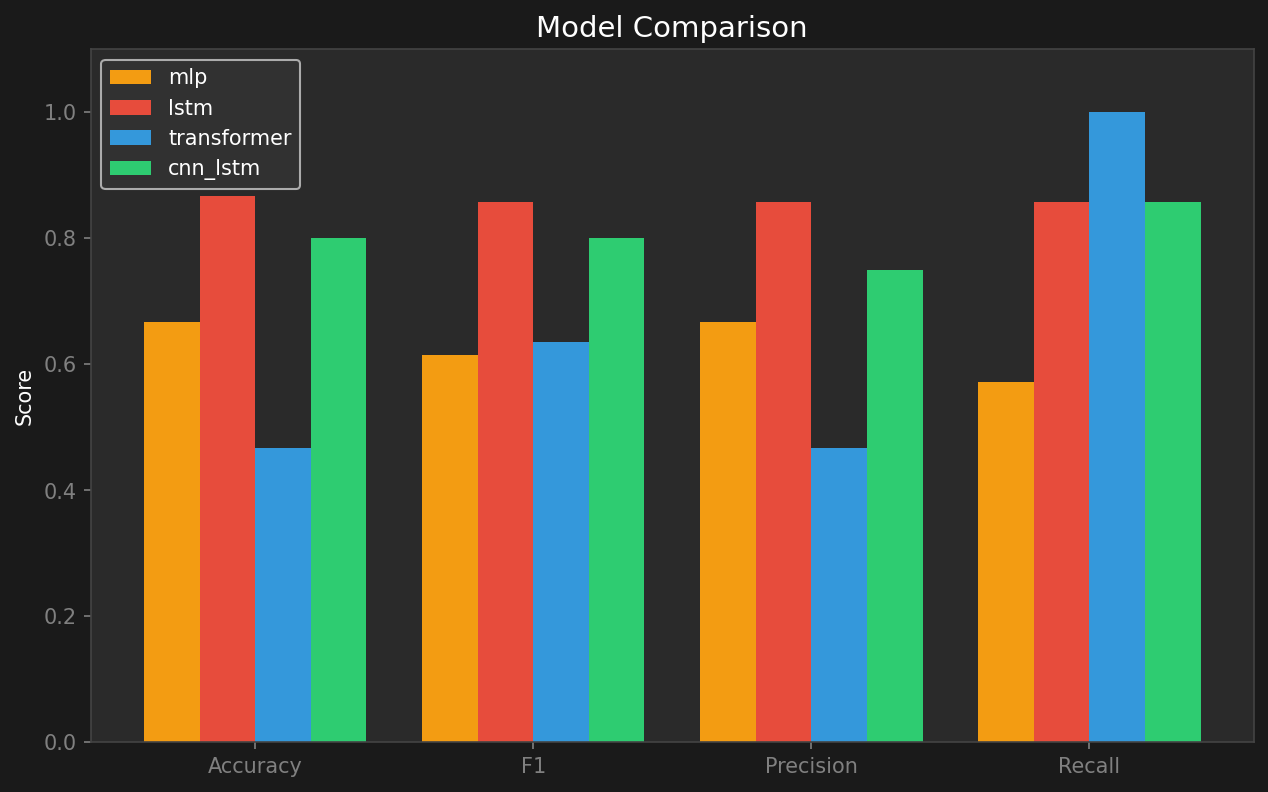
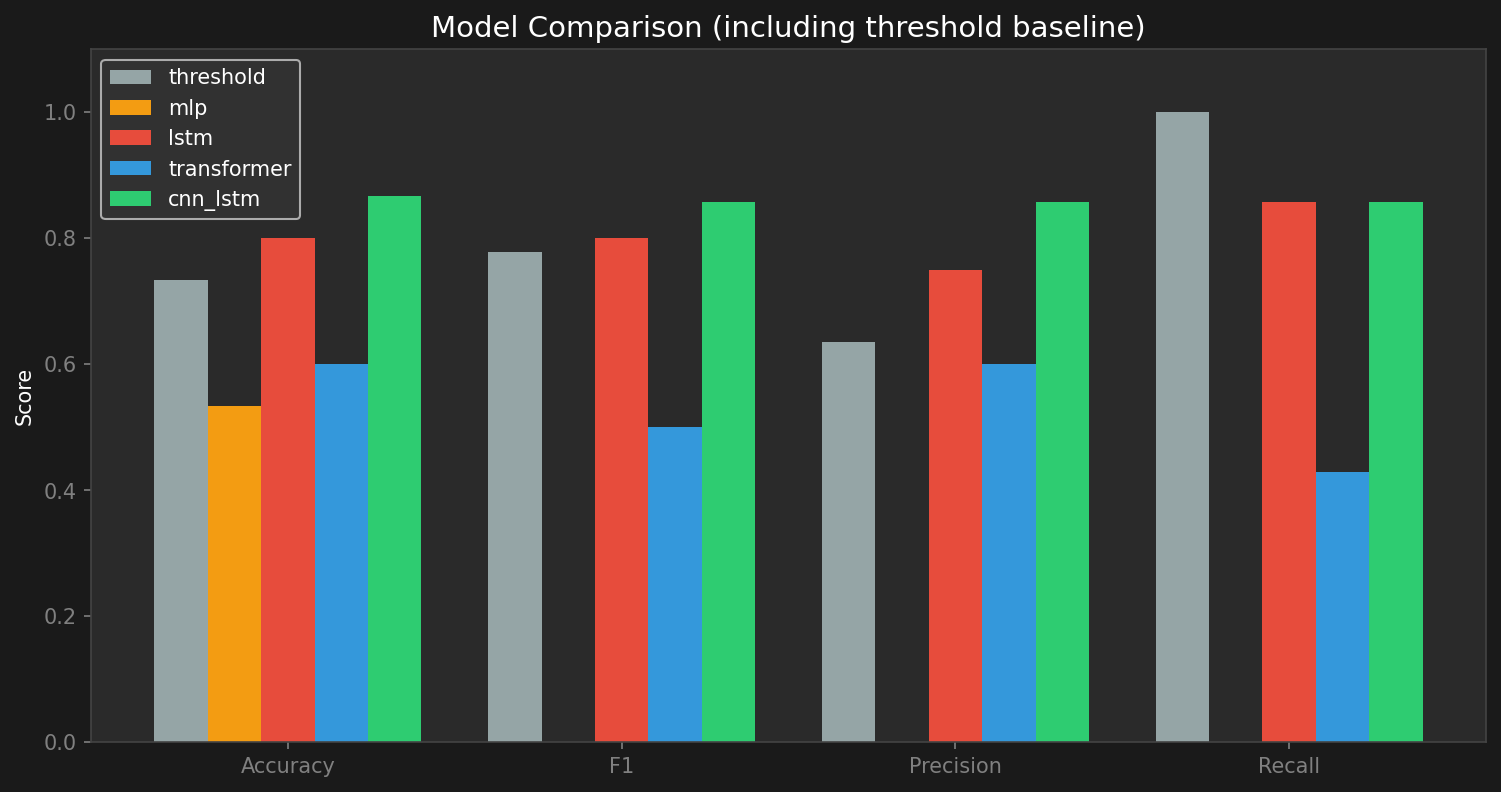
added baseline

diff --git a/threshold_baseline.py b/threshold_baseline.py
@@ -1,0 +1,151 @@
+"""
+Data-driven threshold baseline.
+
+Instead of hardcoded angle thresholds, this baseline:
+  1. Splits the data the same way as the ML models (70/15/15)
+  2. On the training set, computes the mean elbow and back angle
+     for correct clips and incorrect clips separately
+  3. Sets the decision threshold = midpoint between the two means
+  4. Classifies test clips using those learned thresholds
+  5. Compares against the LSTM checkpoint if available
+
+Run:
+    python threshold_baseline.py
+"""
+
+import numpy as np
+from sklearn.model_selection import train_test_split
+from sklearn.metrics import accuracy_score, f1_score, classification_report
+
+import config
+
+# ── Angle computation ─────────────────────────────────────────────────────────
+
+def compute_angle(a, b, c):
+    ba, bc = a - b, c - b
+    cos_a = np.dot(ba, bc) / (np.linalg.norm(ba) * np.linalg.norm(bc) + 1e-6)
+    return float(np.degrees(np.arccos(np.clip(cos_a, -1, 1))))
+
+
+def clip_features(seq):
+    """
+    seq: (150, 33, 2)
+    Returns mean elbow angle and mean back alignment during bottom phase (frames 0–74).
+    """
+    bottom = seq[:seq.shape[0] // 2]
+    elbows = [compute_angle(f[12], f[14], f[16]) for f in bottom]
+    backs  = [compute_angle(f[12], f[24], f[28]) for f in bottom]
+    return np.mean(elbows), np.mean(backs)
+
+
+# ── Load data ─────────────────────────────────────────────────────────────────
+
+print("Loading dataset …")
+correct   = np.load(config.CORRECT_NPY).reshape(50, 150, 33, 2)
+incorrect = np.load(config.INCORRECT_NPY).reshape(50, 150, 33, 2)
+
+features = []
+labels   = []
+
+for seq in correct:
+    features.append(clip_features(seq))
+    labels.append(1)
+for seq in incorrect:
+    features.append(clip_features(seq))
+    labels.append(0)
+
+features = np.array(features)   # (100, 2) — [elbow_mean, back_mean]
+labels   = np.array(labels)     # (100,)
+
+# ── Same train/test split as ML models ───────────────────────────────────────
+
+X_train, X_temp, y_train, y_temp = train_test_split(
+    features, labels,
+    test_size=(config.VAL_SPLIT + config.TEST_SPLIT),
+    random_state=config.RANDOM_SEED,
+    stratify=labels,
+)
+val_ratio = config.VAL_SPLIT / (config.VAL_SPLIT + config.TEST_SPLIT)
+_, X_test, _, y_test = train_test_split(
+    X_temp, y_temp,
+    test_size=(1 - val_ratio),
+    random_state=config.RANDOM_SEED,
+    stratify=y_temp,
+)
+
+# ── Learn thresholds from training set ───────────────────────────────────────
+
+correct_train   = X_train[y_train == 1]
+incorrect_train = X_train[y_train == 0]
+
+elbow_correct_mean   = correct_train[:, 0].mean()
+elbow_incorrect_mean = incorrect_train[:, 0].mean()
+elbow_threshold      = (elbow_correct_mean + elbow_incorrect_mean) / 2
+
+back_correct_mean   = correct_train[:, 1].mean()
+back_incorrect_mean = incorrect_train[:, 1].mean()
+back_threshold      = (back_correct_mean + back_incorrect_mean) / 2
+
+print(f"\nLearned thresholds (from training set):")
+print(f"  Elbow — correct mean: {elbow_correct_mean:.1f}°  incorrect mean: {elbow_incorrect_mean:.1f}°  → threshold: {elbow_threshold:.1f}°")
+print(f"  Back  — correct mean: {back_correct_mean:.1f}°  incorrect mean: {back_incorrect_mean:.1f}°  → threshold: {back_threshold:.1f}°")
+
+# ── Classify test set ─────────────────────────────────────────────────────────
+#
+# A clip is "correct" if it looks more like a correct clip on either joint.
+# We try three voting strategies and pick the best.
+
+def predict(X, elbow_thresh, back_thresh, strategy="either"):
+    preds = []
+    for elbow, back in X:
+        # Closer to correct = lower elbow angle (more bent) and higher back angle (straighter)
+        elbow_vote = 1 if elbow <= elbow_thresh else 0
+        back_vote  = 1 if back  >= back_thresh  else 0
+
+        if strategy == "either":
+            preds.append(1 if (elbow_vote + back_vote) >= 1 else 0)
+        elif strategy == "both":
+            preds.append(1 if (elbow_vote + back_vote) == 2 else 0)
+        elif strategy == "elbow_only":
+            preds.append(elbow_vote)
+        elif strategy == "back_only":
+            preds.append(back_vote)
+    return np.array(preds)
+
+
+print(f"\n{'='*55}")
+print(f"{'Strategy':<20} {'Accuracy':>10} {'F1':>10}")
+print(f"{'-'*55}")
+
+best_acc, best_f1, best_strategy = 0, 0, ""
+for strategy in ["either", "both", "elbow_only", "back_only"]:
+    preds = predict(X_test, elbow_threshold, back_threshold, strategy)
+    acc = accuracy_score(y_test, preds)
+    f1  = f1_score(y_test, preds, average="binary", zero_division=0)
+    print(f"  {strategy:<18} {acc:>10.4f} {f1:>10.4f}")
+    if acc > best_acc:
+        best_acc, best_f1, best_strategy = acc, f1, strategy
+
+print(f"{'='*55}")
+print(f"\nBest strategy: {best_strategy}  (acc={best_acc:.4f}  f1={best_f1:.4f})")
+
+best_preds = predict(X_test, elbow_threshold, back_threshold, best_strategy)
+print("\nClassification Report:")
+print(classification_report(y_test, best_preds, target_names=["Poor Form", "Good Form"]))
+
+# ── Compare against LSTM if checkpoint exists ─────────────────────────────────
+
+from pathlib import Path
+lstm_results_path = Path(config.RESULTS_DIR) / "lstm_results.npy"
+if lstm_results_path.exists():
+    lstm = np.load(lstm_results_path, allow_pickle=True).item()
+    print(f"{'='*55}")
+    print(f"{'Model':<25} {'Accuracy':>10} {'F1':>10}")
+    print(f"{'-'*55}")
+    print(f"  {'Threshold baseline':<23} {best_acc:>10.4f} {best_f1:>10.4f}")
+    print(f"  {'LSTM':<23} {lstm['accuracy']:>10.4f} {lstm['f1']:>10.4f}")
+    lstm_gain = lstm['accuracy'] - best_acc
+    print(f"{'='*55}")
+    print(f"\nLSTM improvement over threshold baseline: {lstm_gain:+.4f} accuracy")
+else:
+    print("\n(Run `python -m src.evaluate --model lstm` first to compare against LSTM)")

diff --git a/compare_models.py b/compare_models.py
@@ -12,6 +12,8 @@ from pathlib import Path
 import numpy as np
 import torch
 import matplotlib.pyplot as plt
+from sklearn.model_selection import train_test_split
+from sklearn.metrics import accuracy_score, f1_score, precision_score, recall_score
 
 import config
 from src.train import train
@@ -21,8 +23,70 @@ from src.evaluate import evaluate_model
 MODELS = ["mlp", "lstm", "transformer", "cnn_lstm"]
 
 
+def compute_angle(a, b, c):
+    ba, bc = a - b, c - b
+    cos_a = np.dot(ba, bc) / (np.linalg.norm(ba) * np.linalg.norm(bc) + 1e-6)
+    return float(np.degrees(np.arccos(np.clip(cos_a, -1, 1))))
+
+
+def run_threshold_baseline():
+    """Data-driven elbow + back threshold baseline (same split as ML models).
+    A clip is good form if either joint passes its learned threshold."""
+    correct   = np.load(config.CORRECT_NPY).reshape(50, 150, 33, 2)
+    incorrect = np.load(config.INCORRECT_NPY).reshape(50, 150, 33, 2)
+
+    features, labels = [], []
+    for seq in correct:
+        bottom = seq[:75]
+        elbows = [compute_angle(f[12], f[14], f[16]) for f in bottom]
+        backs  = [compute_angle(f[12], f[24], f[28]) for f in bottom]
+        features.append([np.mean(elbows), np.mean(backs)])
+        labels.append(1)
+    for seq in incorrect:
+        bottom = seq[:75]
+        elbows = [compute_angle(f[12], f[14], f[16]) for f in bottom]
+        backs  = [compute_angle(f[12], f[24], f[28]) for f in bottom]
+        features.append([np.mean(elbows), np.mean(backs)])
+        labels.append(0)
+
+    features = np.array(features)   # (100, 2)
+    labels   = np.array(labels)
+
+    X_train, X_temp, y_train, y_temp = train_test_split(
+        features, labels,
+        test_size=(config.VAL_SPLIT + config.TEST_SPLIT),
+        random_state=config.RANDOM_SEED, stratify=labels,
+    )
+    val_ratio = config.VAL_SPLIT / (config.VAL_SPLIT + config.TEST_SPLIT)
+    _, X_test, _, y_test = train_test_split(
+        X_temp, y_temp,
+        test_size=(1 - val_ratio),
+        random_state=config.RANDOM_SEED, stratify=y_temp,
+    )
+
+    elbow_thresh = (X_train[y_train == 1, 0].mean() + X_train[y_train == 0, 0].mean()) / 2
+    back_thresh  = (X_train[y_train == 1, 1].mean() + X_train[y_train == 0, 1].mean()) / 2
+
+    elbow_vote = (X_test[:, 0] <= elbow_thresh).astype(int)
+    back_vote  = (X_test[:, 1] >= back_thresh).astype(int)
+    preds = ((elbow_vote + back_vote) >= 1).astype(int)
+
+    return {
+        "accuracy":  accuracy_score(y_test, preds),
+        "f1":        f1_score(y_test, preds, average="binary", zero_division=0),
+        "precision": precision_score(y_test, preds, average="binary", zero_division=0),
+        "recall":    recall_score(y_test, preds, average="binary", zero_division=0),
+    }
+
+
 def run_all(epochs: int, quick: bool = False):
     results = {}
+
+    # ── Threshold baseline (no training needed) ───────────────────────────────
+    print("\n[compare] Running threshold baseline …")
+    results["threshold"] = run_threshold_baseline()
+
+    # ── ML models ─────────────────────────────────────────────────────────────
     for model_name in MODELS:
         print(f"\n{'='*60}")
         print(f"  Training: {model_name.upper()}")
@@ -48,21 +112,22 @@ def run_all(epochs: int, quick: bool = False):
     if results:
         metrics = ["accuracy", "f1", "precision", "recall"]
         x = np.arange(len(metrics))
-        width = 0.2
-        fig, ax = plt.subplots(figsize=(10, 6))
+        n = len(results)
+        width = 0.8 / n
+        fig, ax = plt.subplots(figsize=(12, 6))
         fig.patch.set_facecolor("#1a1a1a")
         ax.set_facecolor("#2a2a2a")
 
-        colors = ["#f39c12", "#e74c3c", "#3498db", "#2ecc71"]
+        colors = ["#95a5a6", "#f39c12", "#e74c3c", "#3498db", "#2ecc71"]
         for i, (name, res) in enumerate(results.items()):
             vals = [res[m] for m in metrics]
-            bars = ax.bar(x + i * width, vals, width, label=name, color=colors[i % len(colors)])
+            ax.bar(x + i * width, vals, width, label=name, color=colors[i % len(colors)])
 
-        ax.set_xticks(x + width * (len(results) - 1) / 2)
+        ax.set_xticks(x + width * (n - 1) / 2)
         ax.set_xticklabels([m.capitalize() for m in metrics], color="white")
         ax.set_ylim(0, 1.1)
         ax.set_ylabel("Score", color="white")
-        ax.set_title("Model Comparison", color="white", fontsize=14)
+        ax.set_title("Model Comparison (including threshold baseline)", color="white", fontsize=14)
         ax.tick_params(colors="gray")
         for spine in ax.spines.values():
             spine.set_edgecolor("#444")